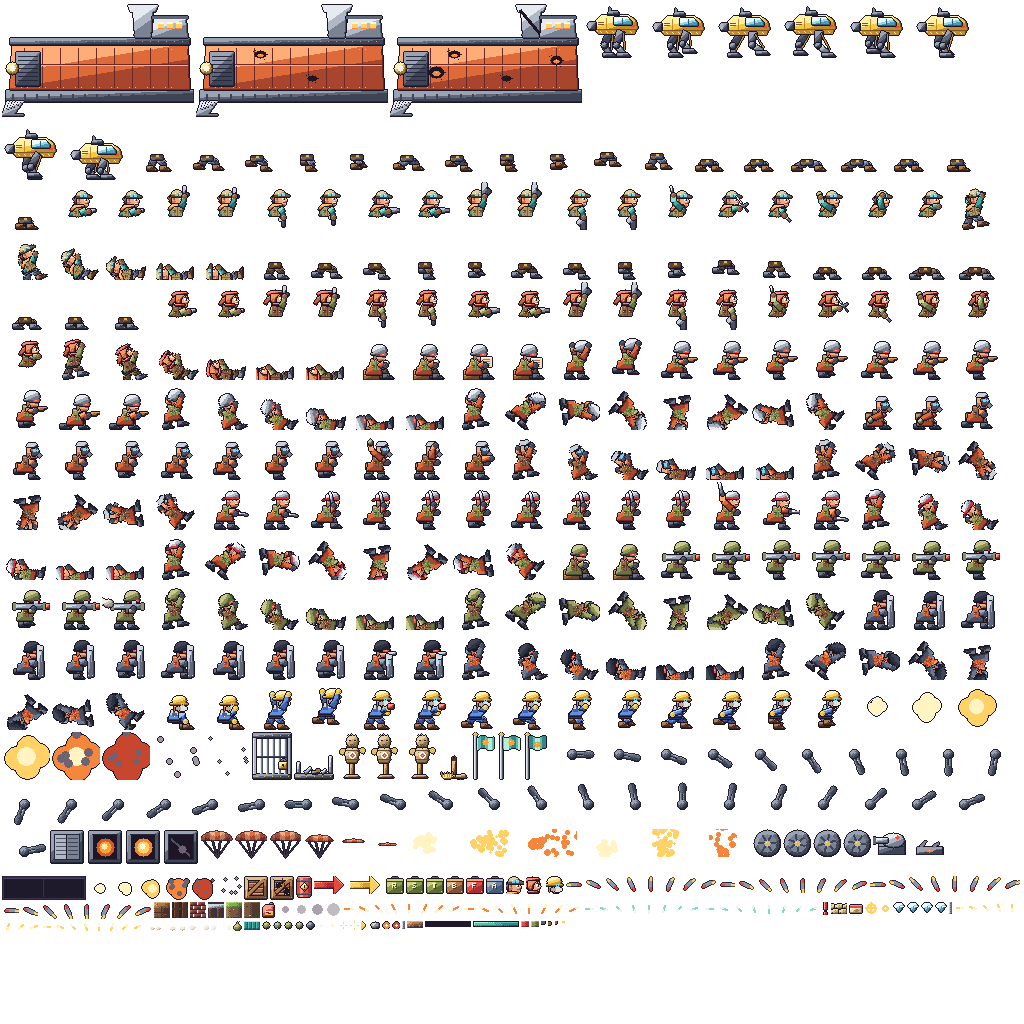
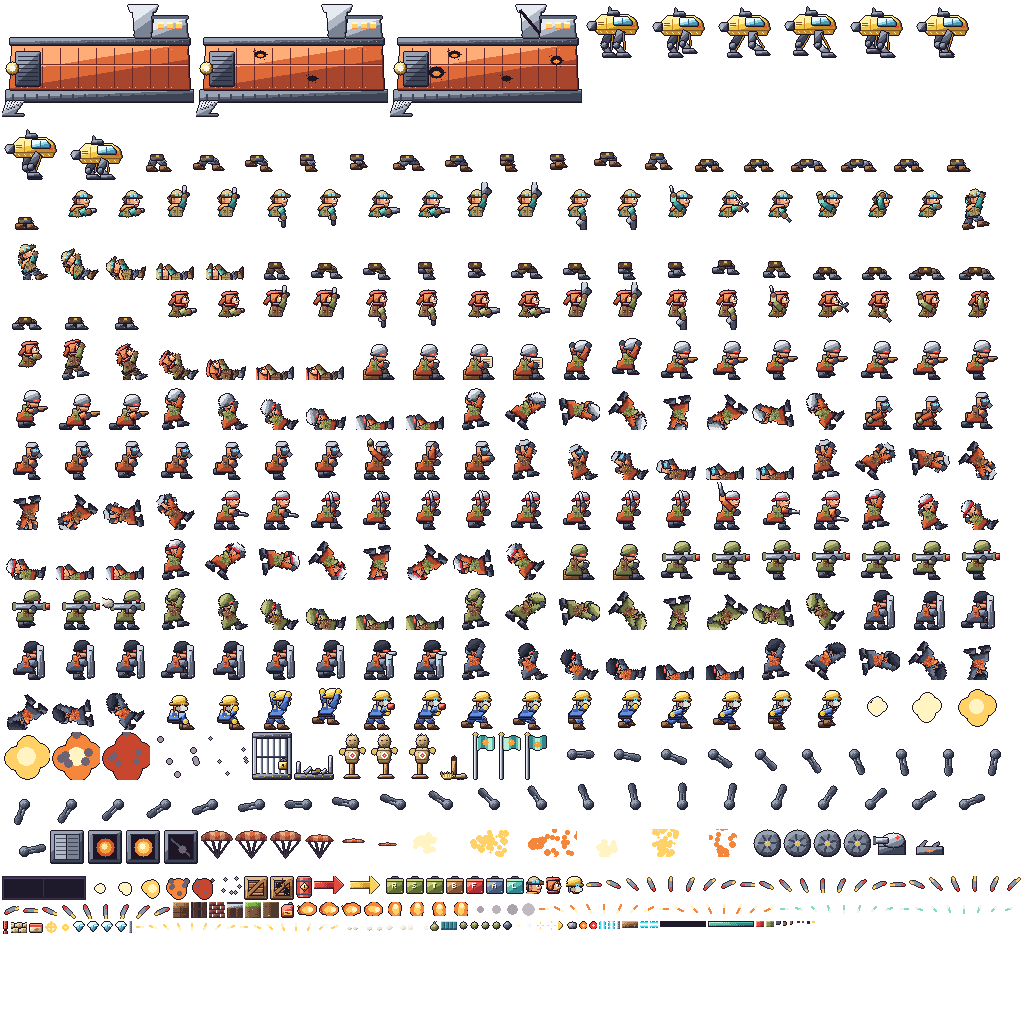
feat: add furnace flamer and arc lance beam with charred deaths

Changed region(s): [[0.0, 0.8438, 1.0, 0.9375]]

diff --git a/src/game/entities/Player.ts b/src/game/entities/Player.ts
@@ -17,6 +17,10 @@ export class Player implements Target, PlayerLocator {
   readonly faction = "player" as const;
   readonly legs: Physics.Arcade.Sprite;
   readonly torso: GameObjects.Sprite;
+  private readonly beam: GameObjects.TileSprite;
+  private readonly beamRect = new Geom.Rectangle();
+  private beaming = false;
+  private beamTick = 0;
   facing: 1 | -1 = 1;
   private readonly life: StateMachine<Player, Life>;
   private readonly fireCd = new Cooldown(0.1);
@@ -37,6 +41,7 @@ export class Player implements Target, PlayerLocator {
     const scene = ctx.scene;
     this.legs = scene.physics.add.sprite(x, y, TEX.atlas, `${char.id}_legs_stand_0`).setOrigin(0.5, 1).setDepth(DEPTH.player);
     this.torso = scene.add.sprite(x, y, TEX.atlas, `${char.id}_pistol_fwd_0`).setOrigin(0.5, 1).setDepth(DEPTH.player + 1);
+    this.beam = scene.add.tileSprite(0, 0, 8, 7, TEX.atlas, "beam_h_0").setDepth(DEPTH.player + 2).setVisible(false);
     this.setBody(false);
     scene.physics.add.collider(this.legs, ctx.terrain.solids);
     scene.physics.add.collider(this.legs, ctx.terrain.platforms);
@@ -154,6 +159,7 @@ export class Player implements Target, PlayerLocator {
   }
 
   tick(dt: number): void {
+    this.beaming = false;
     if (this.invuln > 0) this.invuln -= dt;
     this.fireCd.tick(dt);
     if (this.recoil > 0) this.recoil -= dt;
@@ -208,6 +214,10 @@ export class Player implements Target, PlayerLocator {
       if (this.actionTime <= 0) this.action = "none";
     }
     if (inp.pressed(Action.Fire) && this.action === "none" && this.tryKnife()) return;
+    if (weapon.mode === "beam") {
+      if (inp.held(Action.Fire) && this.action === "none") this.fireBeam(dt);
+      else this.beamTick = 0;
+    }
     if (inp.pressed(Action.Fire) && this.action === "none" && this.fireCd.ready) {
       this.fireCd.trigger(weapon.cooldown);
       this.burstLeft = weapon.burst;
@@ -283,11 +293,44 @@ export class Player implements Target, PlayerLocator {
       this.ctx.combat.strikeAll(r, { amount: w.damage, kind: "blast", from: "player", x: m.x, y: m.y });
       this.ctx.camera.shake(2, 0.08);
       this.ctx.events.emit("sound", "scatter");
-    } else {
+    } else if (w.mode === "flame") {
+      this.ctx.projectiles.fire("flame", m.x + dx * 6, m.y + dy * 6, dx * w.speed, dy * w.speed, w.damage);
+      this.ctx.events.emit("sound", "flame");
+    } else if (w.mode === "rocket") {
       this.ctx.projectiles.fire("rocket", m.x, m.y, dx * 90, dy * 90, w.damage);
       this.ctx.events.emit("sound", "rocket");
     }
     loadout.consumeShot();
+  }
+
+  private fireBeam(dt: number): void {
+    const w = this.ctx.state.loadout.weapon;
+    const aim = this.aimKey();
+    const dx = aim === "fwd" ? this.facing : 0;
+    const dy = aim === "up" ? -1 : aim === "down" ? 1 : 0;
+    const tip = this.muzzle();
+    const m = { x: tip.x - dx * 4, y: tip.y - dy * 4 };
+    let len = 4;
+    while (len < w.range && !this.ctx.terrain.solidAt(m.x + dx * len, m.y + dy * len) && this.ctx.camera.visible(m.x + dx * len, 8)) len += 4;
+    this.beaming = true;
+    this.recoil = 0.05;
+    const flicker = Math.floor(this.ctx.scene.time.now / 50) % 2;
+    if (dx !== 0) {
+      this.beam.setFrame(`beam_h_${flicker}`).setOrigin(dx > 0 ? 0 : 1, 0.5).setSize(len, 7).setPosition(Math.round(m.x), Math.round(m.y));
+      this.beam.tilePositionX += dt * 240 * dx;
+      this.beamRect.setTo(dx > 0 ? m.x : m.x - len, m.y - 3, len, 6);
+    } else {
+      this.beam.setFrame(`beam_v_${flicker}`).setOrigin(0.5, dy < 0 ? 1 : 0).setSize(7, len).setPosition(Math.round(m.x), Math.round(m.y));
+      this.beam.tilePositionY += dt * 240 * dy;
+      this.beamRect.setTo(m.x - 3, dy < 0 ? m.y - len : m.y, 6, len);
+    }
+    this.beamTick -= dt;
+    if (this.beamTick > 0) return;
+    this.beamTick = w.cooldown;
+    this.ctx.combat.forEachOverlap("player", this.beamRect, (t) => t.hit({ amount: w.damage, kind: "beam", from: "player", x: m.x, y: m.y }));
+    if (len < w.range) this.ctx.fx.spark(m.x + dx * len, m.y + dy * len, -dx);
+    this.ctx.events.emit("sound", "laser");
+    this.ctx.state.loadout.consumeShot();
   }
 
   private throwBomb(): void {
@@ -303,6 +346,7 @@ export class Player implements Target, PlayerLocator {
 
   syncVisuals(): void {
     const st = this.life.current;
+    this.beam.setVisible(this.beaming && st === "alive");
     if (st === "piloting" || st === "down") return;
     const flip = this.facing < 0;
     this.legs.setFlipX(flip);

diff --git a/src/game/systems/ProjectileSystem.ts b/src/game/systems/ProjectileSystem.ts
@@ -11,7 +11,7 @@ import type { CameraDirector } from "./CameraDirector";
 import type { CombatSystem } from "./CombatSystem";
 import type { EffectsSystem } from "./EffectsSystem";
 
-export type ProjectileKind = "bullet" | "heavy" | "vulcan" | "enemyBullet" | "rocket" | "enemyRocket" | "bomb" | "enemyBomb" | "shell" | "mortar";
+export type ProjectileKind = "bullet" | "heavy" | "vulcan" | "enemyBullet" | "rocket" | "enemyRocket" | "flame" | "bomb" | "enemyBomb" | "shell" | "mortar";
 
 interface Spec {
   frame: string;
@@ -28,6 +28,7 @@ interface Spec {
   big: boolean;
   orient: boolean;
   life: number;
+  pierce?: boolean;
 }
 
 const SPECS: Record<ProjectileKind, Spec> = {
@@ -35,6 +36,7 @@ const SPECS: Record<ProjectileKind, Spec> = {
   heavy: { frame: "bullet_r", faction: "player", gravity: 0, radius: 0, bounces: 0, accel: 0, maxSpeed: 0, w: 8, h: 4, kind: "bullet", big: false, orient: true, life: 1.4 },
   vulcan: { frame: "bullet_v", faction: "player", gravity: 0, radius: 0, bounces: 0, accel: 0, maxSpeed: 0, w: 8, h: 4, kind: "bullet", big: false, orient: true, life: 1.4 },
   rocket: { frame: "rocket", faction: "player", gravity: 0, radius: 26, bounces: 0, accel: 600, maxSpeed: 380, w: 10, h: 6, kind: "blast", big: false, orient: true, life: 2 },
+  flame: { frame: "flame_0", anim: "flame", faction: "player", gravity: 0, radius: 0, bounces: 0, accel: 0, maxSpeed: 0, w: 14, h: 10, kind: "fire", big: false, orient: false, life: 0.85, pierce: true },
   enemyRocket: { frame: "rocket", faction: "enemy", gravity: 0, radius: 16, bounces: 0, accel: 0, maxSpeed: 0, w: 10, h: 6, kind: "blast", big: false, orient: true, life: 5 },
   bomb: { frame: "bomb_0", anim: "bomb", faction: "player", gravity: PHYSICS.gravity, radius: BOMB.radius, bounces: 1, accel: 0, maxSpeed: 0, w: 7, h: 7, kind: "blast", big: true, orient: false, life: 4 },
   shell: { frame: "shell_0", faction: "player", gravity: PHYSICS.gravity * 0.5, radius: 32, bounces: 0, accel: 0, maxSpeed: 0, w: 8, h: 6, kind: "blast", big: true, orient: false, life: 3 },
@@ -50,6 +52,7 @@ export class Projectile extends GameObjects.Sprite {
   damage = 1;
   life = 0;
   bounces = 0;
+  readonly hits = new Set<object>();
 }
 
 export class ProjectileSystem {
@@ -85,10 +88,14 @@ export class ProjectileSystem {
     p.damage = damage;
     p.life = s.life;
     p.bounces = s.bounces;
-    p.setActive(true).setVisible(true).setPosition(x, y).setRotation(0).setFlipX(false);
+    p.hits.clear();
+    p.setActive(true).setVisible(true).setPosition(x, y).setRotation(0).setFlipX(false).setFlipY(false).setAlpha(1);
     if (s.orient) this.orient(p, s);
     else p.setFrame(s.frame);
-    if (s.anim) p.play(s.anim);
+    if (kind === "flame") {
+      const vertical = Math.abs(vy) > Math.abs(vx);
+      p.play(vertical ? "flame_up" : "flame").setFlipX(!vertical && vx < 0).setFlipY(vertical && vy > 0);
+    } else if (s.anim) p.play(s.anim);
     return p;
   }
 
@@ -141,7 +148,10 @@ export class ProjectileSystem {
         }
       }
     } else if (this.terrain.solidAt(p.x, p.y)) {
-      if (s.radius > 0) this.detonate(p);
+      if (s.pierce) {
+        this.fx.play("smoke", p.x, p.y);
+        this.pool.release(p);
+      } else if (s.radius > 0) this.detonate(p);
       else {
         this.fx.wallHit(p.x, p.y);
         this.pool.release(p);
@@ -151,6 +161,15 @@ export class ProjectileSystem {
     this.rect.setTo(p.x - s.w / 2, p.y - s.h / 2, s.w, s.h);
     if (s.radius > 0) {
       if (this.combat.firstOverlap(s.faction, this.rect)) this.detonate(p);
+      return;
+    }
+    if (s.pierce) {
+      if (p.life < 0.2) p.setAlpha(Math.floor(p.life * 30) % 2 ? 1 : 0.4);
+      this.combat.forEachOverlap(s.faction, this.rect, (t) => {
+        if (p.hits.has(t)) return;
+        p.hits.add(t);
+        t.hit({ amount: p.damage, kind: s.kind, from: s.faction, x: p.x, y: p.y });
+      });
       return;
     }
     const res = this.combat.strikeFirst(this.rect, { amount: p.damage, kind: s.kind, from: s.faction, x: p.x, y: p.y });

diff --git a/tests/e2e/mission.spec.ts b/tests/e2e/mission.spec.ts
@@ -162,6 +162,37 @@ test("shield soldiers block pistol fire from the front but fall to the knife and
   expect(await run<boolean>(page, "return sc.enemies.list.find((e) => e.group === -10).alive;")).toBe(false);
 });
 
+test("one furnace fireball burns through a line of soldiers and can be aimed up", async ({ page }) => {
+  await startMission(page);
+  await run(page, "mv.shield(60); " + KILL_ALL + " sc.state.loadout.pickWeapon('furnace'); for (const dx of [60, 85, 110]) sc.enemies.spawn({ type: 'grunt', x: sc.player.x + dx, y: 184, idle: 'none', hold: true, group: -11, facing: -1 }).cooldown.trigger(30);");
+  await page.waitForTimeout(250);
+  await tap(page, "KeyJ", 40);
+  await page.waitForTimeout(900);
+  expect(await run<number>(page, "return sc.enemies.list.filter((e) => e.group === -11 && e.alive).length;")).toBe(0);
+  expect((await snap(page)).ammo).toBe(29);
+  await page.keyboard.down("ArrowUp");
+  await page.waitForTimeout(60);
+  await tap(page, "KeyJ", 40);
+  await page.waitForTimeout(60);
+  await page.keyboard.up("ArrowUp");
+  expect(await run<number>(page, "let vy = 0; sc.ctx.projectiles.pool.forEachActive((p) => { if (p.type2 === 'flame') vy = p.vy; }); return vy;")).toBeLessThan(0);
+});
+
+test("the arc lance beam pierces a riot shield, drains ammo while held and vanishes on release", async ({ page }) => {
+  await startMission(page);
+  await run(page, "mv.shield(60); " + KILL_ALL + " sc.state.loadout.pickWeapon('lance'); sc.enemies.spawn({ type: 'shield', x: sc.player.x + 90, y: 184, idle: 'none', hold: true, group: -12, facing: -1 }).cooldown.trigger(30); sc.enemies.spawn({ type: 'grunt', x: sc.player.x + 140, y: 184, idle: 'none', hold: true, group: -12, facing: -1 }).cooldown.trigger(30);");
+  await page.waitForTimeout(250);
+  await page.keyboard.down("KeyJ");
+  await page.waitForTimeout(500);
+  expect(await run<boolean>(page, "return sc.player.beam.visible;")).toBe(true);
+  await page.waitForTimeout(500);
+  await page.keyboard.up("KeyJ");
+  await page.waitForTimeout(100);
+  expect(await run<number>(page, "return sc.enemies.list.filter((e) => e.group === -12 && e.alive).length;")).toBe(0);
+  expect((await snap(page)).ammo).toBeLessThan(195);
+  expect(await run<boolean>(page, "return sc.player.beam.visible;")).toBe(false);
+});
+
 test("freeing a caged Tinker counts a rescue and drops the Rivet gun", async ({ page }) => {
   await startMission(page);
   await run(page, "mv.shield(120); mv.warp(760); sc.enemies.list.forEach((e) => e.active && e.fsm.change('gone'));");

diff --git a/src/game/entities/enemies/Enemy.ts b/src/game/entities/enemies/Enemy.ts
@@ -40,6 +40,7 @@ export class Enemy implements Target {
   active = false;
   fired = false;
   private blastSpin = 0;
+  private burnt = false;
   private spinAngle = 0;
 
   constructor(readonly ctx: GameContext, private readonly behaviours: Record<EnemyType, EnemyBehaviour>) {
@@ -101,6 +102,14 @@ export class Enemy implements Target {
             const k = ((Math.round(e.spinAngle / (Math.PI / 4)) % 8) + 8) % 8;
             e.sprite.setFrame(`${e.def.type}_tumble_${k}`);
           }
+          if (e.burnt) {
+            e.sprite.setTint(0x3a2c30);
+            if (t < 0.8 && Math.floor(t * 14) % 3 === 0) e.ctx.fx.play("smoke", e.x + e.ctx.rng.range(-6, 6), e.y - e.ctx.rng.range(10, 30));
+            if (t > 0.8 && e.sprite.visible) {
+              e.ctx.fx.debris(e.x, e.y - 14, 8, ["ash_0", "ash_1", "ash_2"]);
+              e.sprite.setVisible(false);
+            }
+          }
           if (t > 1.2) e.sprite.setAlpha(Math.max(0, 1 - (t - 1.2) * 3));
           return t > 1.55 ? "gone" : undefined;
         },
@@ -142,6 +151,8 @@ export class Enemy implements Target {
     this.facing = s.facing;
     this.active = true;
     this.blastSpin = 0;
+    this.burnt = false;
+    this.sprite.clearTint();
     this.cooldown.trigger(this.ctx.rng.range(0.4, 1.2));
     this.sprite.enableBody(true, s.x, s.y, true, true).setAlpha(1).setRotation(0).setFlipX(this.facing < 0).setDepth(DEPTH.enemies);
     this.body.checkCollision.none = false;
@@ -168,7 +179,7 @@ export class Enemy implements Target {
       return ABSORBED;
     }
     this.hp -= hit.amount;
-    this.ctx.fx.flash(this.sprite);
+    if (hit.kind !== "beam" || Math.floor(this.ctx.scene.time.now / 90) % 2 === 0) this.ctx.fx.flash(this.sprite);
     if (this.hp > 0) {
       this.ctx.events.emit("sound", this.def.type === "dummy" ? "clank" : "hit");
       if (this.def.type === "dummy") this.sprite.play("dummy_hit");
@@ -187,6 +198,11 @@ export class Enemy implements Target {
     if (this.def.type === "dummy") {
       this.sprite.setFrame("dummy_broken_0");
       this.ctx.fx.debris(this.x, this.y - 24, 6, ["debris_1"]);
+    } else if ((hit.kind === "fire" || hit.kind === "beam") && !this.burnt) {
+      this.burnt = true;
+      this.body.setVelocityX(0);
+      this.sprite.play(this.def.dieAnim);
+      this.sprite.setTint(0x3a2c30);
     } else if (hit.kind === "blast") {
       const away = Math.sign(this.x - hit.x) || 1;
       this.spinAngle = 0;

diff --git a/src/domain/weapons/WeaponDefs.ts b/src/domain/weapons/WeaponDefs.ts
@@ -1,5 +1,5 @@
-export type WeaponId = "pistol" | "rivet" | "scatter" | "thumper";
-export type FireMode = "bullet" | "stream" | "blast" | "rocket";
+export type WeaponId = "pistol" | "rivet" | "scatter" | "thumper" | "furnace" | "lance";
+export type FireMode = "bullet" | "stream" | "blast" | "rocket" | "flame" | "beam";
 export type TorsoSet = "pistol" | "heavy";
 
 export interface WeaponDef {
@@ -22,5 +22,7 @@ export const WEAPONS: Readonly<Record<WeaponId, WeaponDef>> = {
   pistol: { id: "pistol", label: "POCKET PISTOL", startAmmo: Infinity, refillAmmo: 0, cooldown: 0.08, burst: 1, burstGap: 0, mode: "bullet", damage: 1, speed: 360, torso: "pistol", diagonal: false, range: 420 },
   rivet: { id: "rivet", label: "RIVET GUN", startAmmo: 200, refillAmmo: 150, cooldown: 0.12, burst: 4, burstGap: 0.045, mode: "stream", damage: 1, speed: 420, torso: "heavy", diagonal: true, range: 420 },
   scatter: { id: "scatter", label: "SCATTER CANNON", startAmmo: 30, refillAmmo: 20, cooldown: 0.45, burst: 1, burstGap: 0, mode: "blast", damage: 6, speed: 0, torso: "heavy", diagonal: false, range: 72 },
+  furnace: { id: "furnace", label: "FURNACE", startAmmo: 30, refillAmmo: 20, cooldown: 0.3, burst: 1, burstGap: 0, mode: "flame", damage: 3, speed: 200, torso: "heavy", diagonal: false, range: 170 },
+  lance: { id: "lance", label: "ARC LANCE", startAmmo: 200, refillAmmo: 150, cooldown: 0.07, burst: 0, burstGap: 0, mode: "beam", damage: 1, speed: 0, torso: "heavy", diagonal: false, range: 360 },
   thumper: { id: "thumper", label: "THUMPER", startAmmo: 30, refillAmmo: 20, cooldown: 0.35, burst: 1, burstGap: 0, mode: "rocket", damage: 8, speed: 380, torso: "heavy", diagonal: false, range: 420 },
 };

diff --git a/src/game/audio/AudioService.ts b/src/game/audio/AudioService.ts
@@ -34,6 +34,8 @@ const BANK: Record<SoundId, Voice[]> = {
   alarm: [{ wave: "square", from: 880, to: 880, time: 0.12, gain: 0.08 }, { wave: "square", from: 660, to: 660, time: 0.12, gain: 0.08, delay: 0.15 }],
   go: [{ wave: "square", from: 523, to: 523, time: 0.1, gain: 0.08 }, { wave: "square", from: 784, to: 784, time: 0.14, gain: 0.08, delay: 0.1 }],
   charge: [{ wave: "square", from: 220, to: 880, time: 0.45, gain: 0.05 }],
+  flame: [{ wave: "noise", from: 0, to: 0, time: 0.28, gain: 0.22, filter: 1200 }, { wave: "sawtooth", from: 140, to: 90, time: 0.22, gain: 0.06 }],
+  laser: [{ wave: "square", from: 1760, to: 1480, time: 0.05, gain: 0.035 }, { wave: "sine", from: 880, to: 900, time: 0.05, gain: 0.04 }],
   enemyShot: [{ wave: "square", from: 500, to: 260, time: 0.07, gain: 0.06 }],
   throw: [{ wave: "triangle", from: 400, to: 700, time: 0.1, gain: 0.07 }],
   vulcan: [{ wave: "square", from: 520, to: 200, time: 0.04, gain: 0.08 }],

diff --git a/src/game/systems/PickupSystem.ts b/src/game/systems/PickupSystem.ts
@@ -4,12 +4,14 @@ import { DEPTH } from "../../config/display";
 import { TEX } from "../assets/keys";
 import type { Terrain } from "../level/Terrain";
 
-export type PickupType = "rivet" | "scatter" | "thumper" | "bombs" | "ammo" | "fuel" | "gem" | "ration";
+export type PickupType = "rivet" | "scatter" | "thumper" | "furnace" | "lance" | "bombs" | "ammo" | "fuel" | "gem" | "ration";
 
 const FRAME: Record<PickupType, { frame: string; anim?: string }> = {
   rivet: { frame: "pick_R_0" },
   scatter: { frame: "pick_S_0" },
   thumper: { frame: "pick_T_0" },
+  furnace: { frame: "pick_F_0" },
+  lance: { frame: "pick_L_0" },
   bombs: { frame: "pick_B_0" },
   ammo: { frame: "pick_A_0" },
   fuel: { frame: "fuel_0" },

diff --git a/src/game/assets/Animations.ts b/src/game/assets/Animations.ts
@@ -49,6 +49,8 @@ const SPECS: AnimSpec[] = [
   { key: "blast_up", prefix: "blast_up_", frames: 3, rate: 24 },
   { key: "flash", prefix: "flash_", frames: 2, rate: 30 },
   { key: "dust", prefix: "dust_", frames: 4, rate: 14 },
+  { key: "flame", prefix: "flame_", frames: 4, rate: 16, repeat: -1 },
+  { key: "flame_up", prefix: "flame_up_", frames: 4, rate: 16, repeat: -1 },
   { key: "bullet_e", prefix: "bullet_e_", frames: 2, rate: 12, repeat: -1 },
   { key: "bomb", prefix: "bomb_", frames: 4, rate: 16, repeat: -1 },
   { key: "gem", prefix: "gem_", frames: 4, rate: 8, repeat: -1 },

diff --git a/src/game/level/missions/lowtide.ts b/src/game/level/missions/lowtide.ts
@@ -37,14 +37,14 @@ export const LOWTIDE: LevelData = {
     { type: "barrel", x: 560 },
     { type: "crate", x: 1500, drop: "bombs" },
     { type: "barrel", x: 1990 },
-    { type: "crate", x: 2470, drop: "ammo" },
+    { type: "crate", x: 2470, drop: "lance" },
     { type: "barrel", x: 2720 },
     { type: "crate", x: 3180, drop: "gem" },
   ],
   hostages: [
     { x: 820, drop: "rivet" },
     { x: 1360, y: 116, drop: "gem" },
-    { x: 2040, drop: "bombs" },
+    { x: 2040, drop: "furnace" },
     { x: 2860, drop: "thumper" },
   ],
   mule: { x: 1620 },

diff --git a/src/game/context/GameEvents.ts b/src/game/context/GameEvents.ts
@@ -3,7 +3,7 @@ import type { Faction } from "../../domain/combat/Damage";
 export type SoundId =
   | "shot" | "rivet" | "scatter" | "rocket" | "boom" | "bigboom" | "knife" | "hit" | "clank"
   | "jump" | "pickup" | "weapon" | "rescue" | "die" | "enemyDie" | "alarm" | "go" | "enemyShot"
-  | "throw" | "vulcan" | "cannon" | "mission" | "complete" | "scream" | "charge";
+  | "throw" | "vulcan" | "cannon" | "mission" | "complete" | "scream" | "charge" | "flame" | "laser";
 
 export interface GameEvents {
   score: { points: number; x: number; y: number };

diff --git a/src/game/systems/CombatSystem.ts b/src/game/systems/CombatSystem.ts
@@ -29,6 +29,13 @@ export class CombatSystem {
     return null;
   }
 
+  forEachOverlap(attacker: Faction, rect: Geom.Rectangle, fn: (t: Target) => void): void {
+    for (const t of [...this.targets]) {
+      if (t.faction === attacker || !t.isHittable()) continue;
+      if (Geom.Intersects.RectangleToRectangle(rect, t.bounds(this.box))) fn(t);
+    }
+  }
+
   strikeFirst(rect: Geom.Rectangle, hit: Hit): HitResult {
     const t = this.firstOverlap(hit.from, rect);
     return t ? t.hit(hit) : MISS;

diff --git a/src/game/scenes/MissionScene.ts b/src/game/scenes/MissionScene.ts
@@ -292,7 +292,9 @@ export class MissionScene extends Scene {
     switch (kind) {
       case "rivet":
       case "scatter":
-      case "thumper": {
+      case "thumper":
+      case "furnace":
+      case "lance": {
         st.loadout.pickWeapon(kind);
         ev.emit("weapon", { label: st.loadout.weapon.label });
         ev.emit("sound", "weapon");
